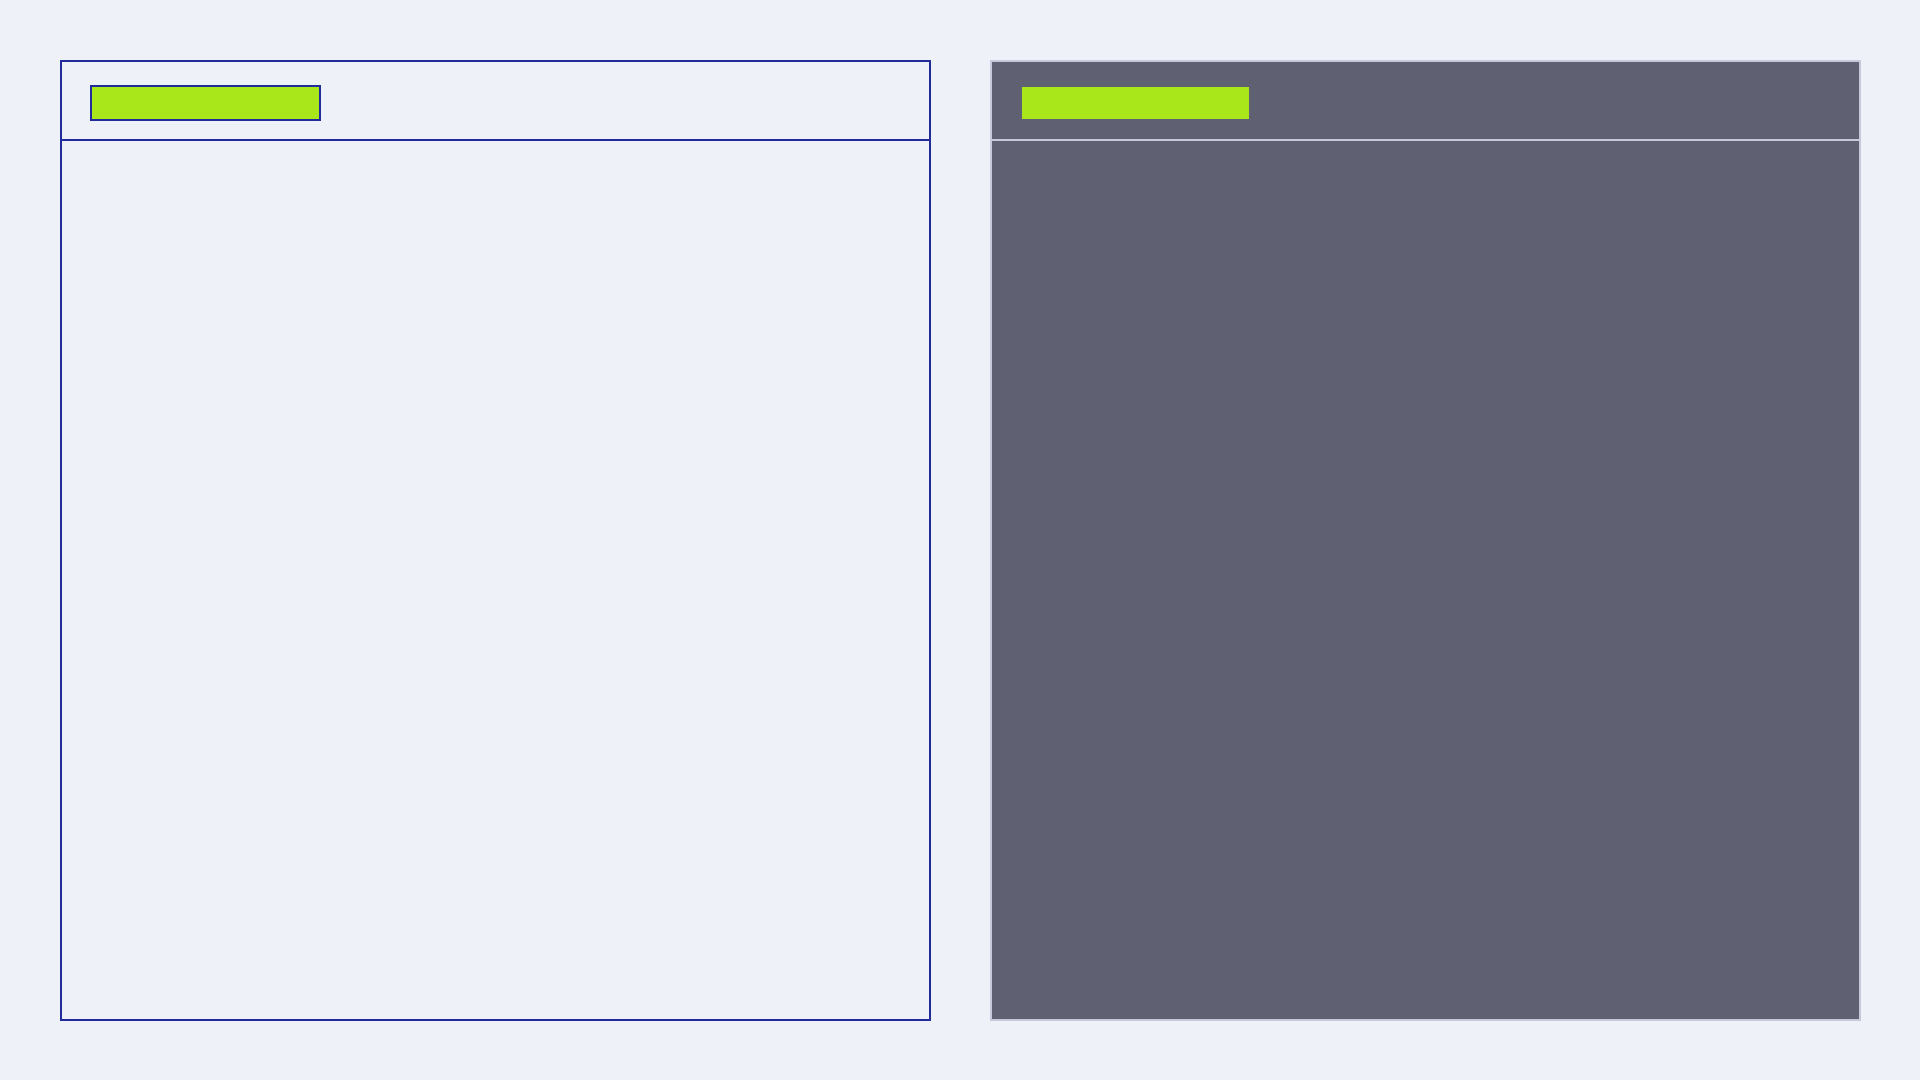
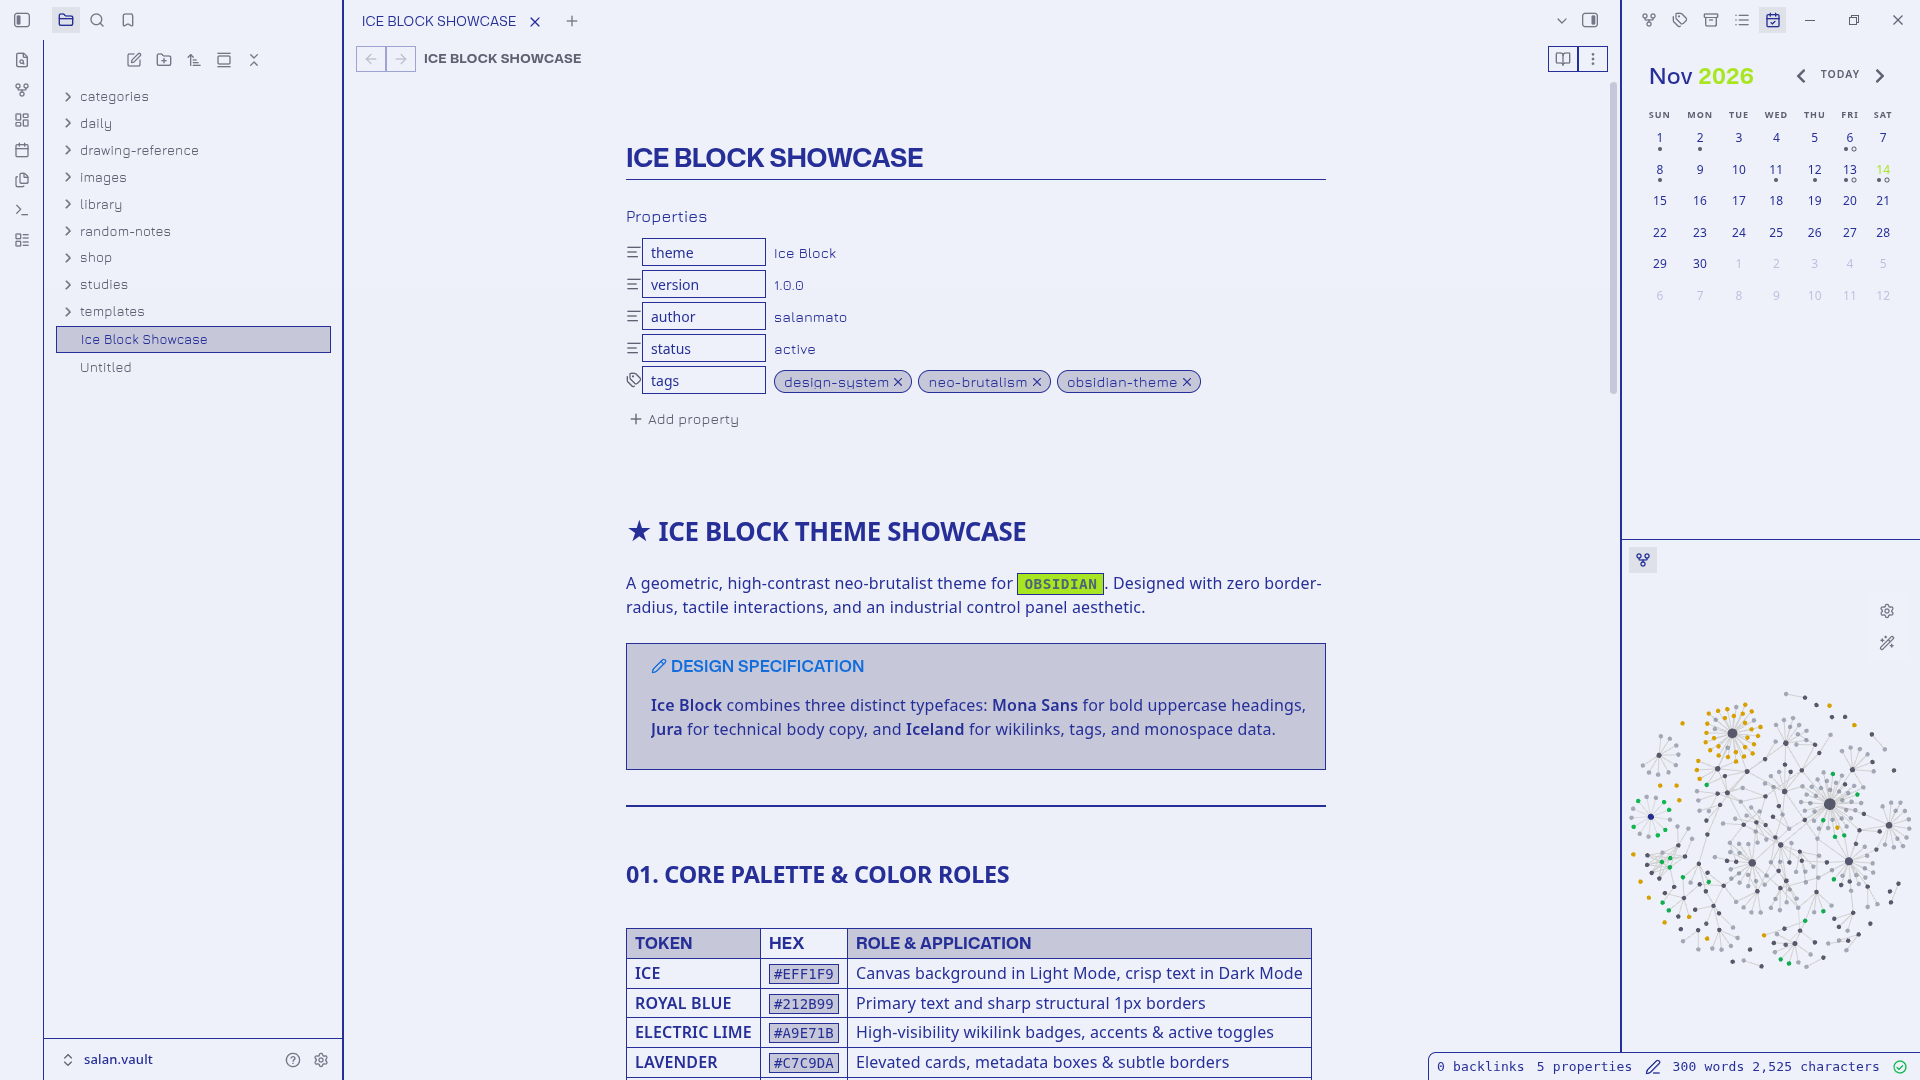
docs: add official screenshots to README and update screenshot.png

diff --git a/README.md b/README.md
@@ -19,6 +19,16 @@ A sharp, geometric, neo-brutalist theme for [Obsidian](https://obsidian.md) insp
 
 ---
 
+## Screenshots
+
+![Ice Block Theme Overview](screenshot_01.png)
+
+![Ice Block Theme Palette & Tasks](screenshot_02.png)
+
+![Ice Block Theme Callouts & Code](screenshot_03.png)
+
+---
+
 ## Palette
 
 | Color | Hex | Role |
